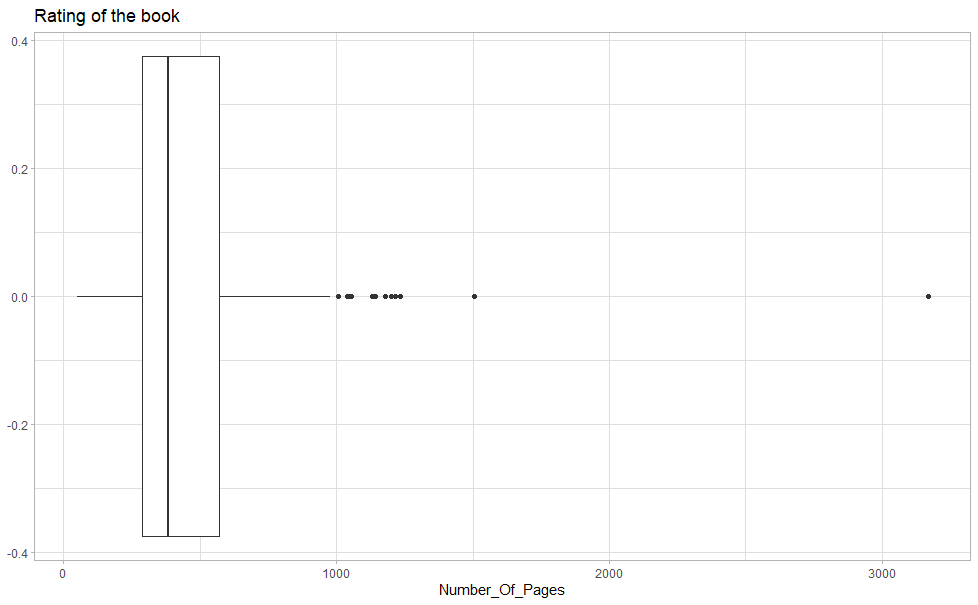
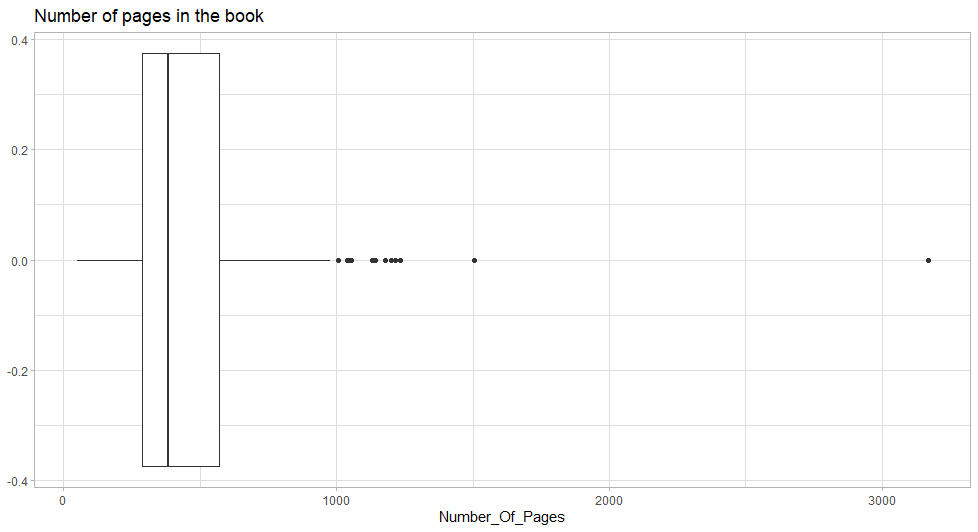
mid

diff --git a/HW04_63130500075.md b/HW04_63130500075.md
@@ -376,8 +376,8 @@ Result:
 ### 2.) Graph show relation between price and rating
 ```R
 ## Scatter Plot
-Books %>% filter(Price < 250) %>% ggplot(aes(x = Rating,y = Price)) + geom_point()
-ratingPrice_plot <- Books %>% filter(Price < 250) %>% ggplot(aes(x = Rating,y = Price)) + 
+Books %>% ggplot(aes(x = Rating,y = Price)) + geom_point()
+ratingPrice_plot <- Books %>% ggplot(aes(x = Rating,y = Price)) + 
                     geom_point(aes(color=Type)) + ggtitle("Relation Between Price and Rating")
 ratingPrice_plot
 ratingPrice_plot + geom_smooth()
@@ -388,16 +388,34 @@ Result:
 
 ![Graph 2](Graph2.png)
 
+Explain :
+
+- From this relation you will see the scatter plot graph by ggplot2. Doing :
+  - create graph, adding point
+  - add title
+  - add theme and decoration
+- You will see that the data scatter over the graph, much of the data is at the bottom left
+- It also leads to conclusion that there are correlation that if number of page increase, the price also increase too.
+
 ### 2.) Graph show Rating of the book
 ```R
-## Boxplot
+## Box Plot
 rating_plot <- Books %>% ggplot(aes(x = Number_Of_Pages)) + geom_boxplot() + 
-               ggtitle("Rating of the book") + theme_light() 
+               ggtitle("Number of pages in the book") + theme_light() 
 rating_plot
 ```
 Result:
 
 ![Graph 3](Graph3.png)
+
+Explain :
+
+- From this relation you will see the box plot graph by ggplot2. Doing :
+  - create graph, adding point
+  - add title
+  - add theme and decoration
+- You will see that the data is really spread (high variance). Rating's mean is around 4.0
+- There are 9 outliers, higher than upper limit and less than lower limit.
 
 ----
 
